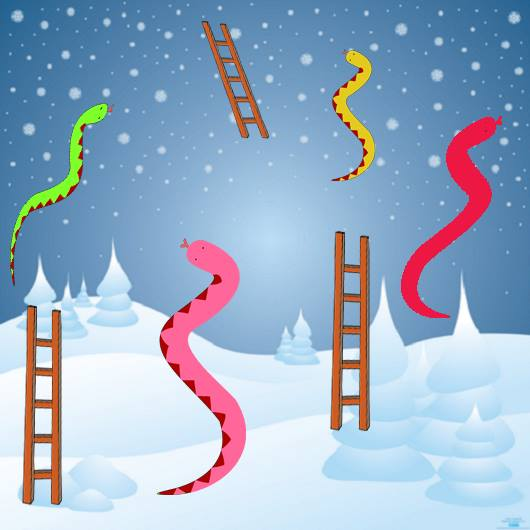
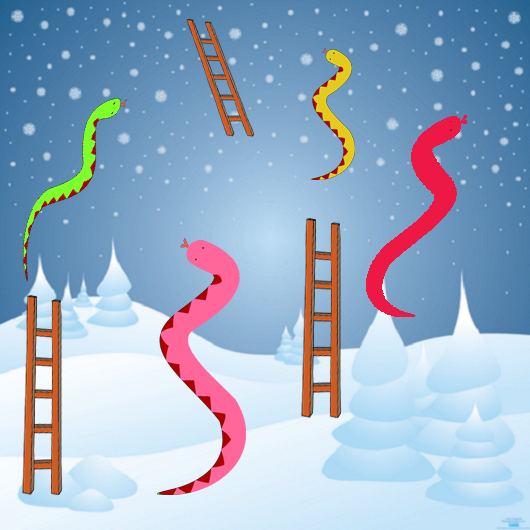
testing uat iterasi 2

diff --git a/Progres 20 Mei/imath/application/controllers/admin/soal_tes.php b/Progres 20 Mei/imath/application/controllers/admin/soal_tes.php
@@ -28,10 +28,12 @@ class soal_tes extends CI_Controller{
 	
 	public function delete($idSoal){
 		$this->load->model('soal_model');
+		$soal = $this->soal_model->get($idSoal);
+		$currentKelas = $soal[0]->idKelas;
 		$this->soal_model->delete($idSoal);
 		$message = "Soal berhasil dihapus";
 		$this->session->set_flashdata('messageSoal',$message);
-		redirect('admin/soal_tes');
+		redirect('admin/soal_tes/daftar_soal/'.$currentKelas);
 	}
 	public function detail($idSoal){
 		$this->load->model('soal_model');		
@@ -221,9 +223,10 @@ class soal_tes extends CI_Controller{
 		$this->soal_model->updateJawaban($arrayb,'b', $idSoal);
 		$this->soal_model->updateJawaban($arrayc, 'c', $idSoal);
 		$this->soal_model->updateJawaban($arrayd, 'd', $idSoal);
+		$currentKelas -> $this->input->post('idKelas');
 		$message = "Soal berhasil diubah";
 		$this->session->set_flashdata('messageSoal',$message);
-		redirect('admin/soal_tes');
+		redirect('admin/soal_tes/daftar_soal'.$currentKelas);
 	}
 	
 	public function createview($idKelas){
@@ -424,8 +427,9 @@ class soal_tes extends CI_Controller{
 		$this->soal_model->addJawaban($arrayd);
 
 		$message = "Soal berhasil dibuat";
+		$currentKelas = $this->input->post('idKelas');
 		$this->session->set_flashdata('messageSoal',$message);
-		redirect('admin/soal_tes');
+		redirect('admin/soal_tes/daftar_soal/'.$currentKelas);
 	}
 	}
 	

diff --git a/Progres 20 Mei/imath/application/views/user/ulartangga_view.php b/Progres 20 Mei/imath/application/views/user/ulartangga_view.php
@@ -4,50 +4,15 @@
 	<link href="<?php echo base_url() ?>assets/css/bootstrap.min.css" rel="stylesheet">
 	<link href="<?php echo base_url() ?>assets/css/imath.css" rel="stylesheet">
 	<style type="text/css">
-		#s1{
-			position: absolute;
-			left: 32%;
-			top: -6%;
-		}
-		#s2{
-			position: absolute;
-			left: 54%;
-			top: -7%;
-		}
-		#s3{
-			position: absolute;
-			left: 49.5%;
-			top: -1%;
-		}
-		#s4{
-			position: absolute;
-			left: 27%;
-			top: 3%;
-		}
-		#l1{
-			position: absolute;
-			left: 28.5%;
-			top: 30.8%;
-		}
-		#l2{
-			position: absolute;
-			left: 50.5%;
-			top: 20.8%;
-		}
-		#l3{
-			position: absolute;
-			left: 41%;
-			top: -19%;
-		}
 		#player{
 			position: absolute;
-			left: 74.5%;
-			top: 55%;
+			left: 64.5%;
+			top: 85%;
 		}		
 		#dice{
 			position: absolute;
-			left: 74.5%;
-			top: 65%;
+			left: 64.5%;
+			top: 92.3%;
 		}
 		td{
 			font-size:20px;
@@ -400,7 +365,7 @@
 		{
 			var t=Math.floor((Math.random() * 10));
 			dice=(t%6)+1;
-			document.getElementById("dice").innerHTML ="<img src='<?php echo base_url()?>assets/images/lds/dice"+dice+".png' width=\"70\" height=\"70\" ></img>";
+			document.getElementById("dice").innerHTML ="<img src='<?php echo base_url()?>assets/images/lds/dice"+dice+".png' width=\"70\" height=\"70\" ></img>"; //dice
 		}
 		
 

diff --git a/Progres 20 Mei/imath/assets/file/soal.php b/Progres 20 Mei/imath/assets/file/soal.php
@@ -8,7 +8,7 @@ Sebuah benda berbentuk trapesium dengan sisi-sisi yang sejajar adalah 15 cm dan 
 Taksiran kira-kira 6.421 - 2.640 adalah 3000
 Lambang bilangan XXIV adalah   24
 Andi sedang mendaki gunung. Ia berada pada ketinggian 175 m di atas permukaan laut. Kemudian ia naik lagi sejauh 125 m. Andi sekarang berada pada ketinggian  300
-Q X 24 + 18 = 1.146 Nilia Q adalah   47
+Q X 24 + 18 = 1.146 Nilai Q adalah   47
 Jumlah kelereng Anton 369 butir. Jumlah kelereng Toni 216 butir. Jumlah kelereng mereka adalah  585
 420 + 72 : 3 X 5 =  540
 2.500 : 25 =  100

diff --git a/Progres 20 Mei/imath/application/views/admin/daftarkelas_view.php b/Progres 20 Mei/imath/application/views/admin/daftarkelas_view.php
@@ -84,7 +84,7 @@
 					</td>
 					<td class="col-md-3">
 					<!-- Edit Button-->
-					<a href="<?php echo base_url();?>/admin/daftar_kelas/viewKunjungan/<?php echo $result[$i]['idKelas'] ?>">
+					<a href="<?php echo base_url();?>admin/daftar_kelas/viewKunjungan/<?php echo $result[$i]['idKelas'] ?>">
 					
 					<p><?php echo $jumlahPengunjung[$result[$i]['idKelas']]; ?></p></a>
 

diff --git a/Progres 20 Mei/imath/application/views/admin/buatsoaltes_view.php b/Progres 20 Mei/imath/application/views/admin/buatsoaltes_view.php
@@ -102,7 +102,7 @@
 		<label>Apakah soal tes ini akan ditampilkan?</label>
 		</br>
 		<input type="radio" name="isDitunjukkan" value ="ya"> Ya
-		<input type="radio" name="isDitunjukkan" value ="tidak"> Tidak
+		<input type="radio" name="isDitunjukkan" value ="tidak" required> Tidak
 		</br></br>
 			<input type="submit" name="submit" value="Submit" />
 		</form>

diff --git a/Progres 20 Mei/imath/application/views/admin/detailkunjungan_view.php b/Progres 20 Mei/imath/application/views/admin/detailkunjungan_view.php
@@ -102,7 +102,7 @@
 			data: [
 			{
 				color: "dodgerblue",
-				type: "column", //change it to line, area, bar, pie, etc
+				type: "spline", //change it to line, area, bar, pie, etc
 				dataPoints: dataPoints
 			}
 			]			
